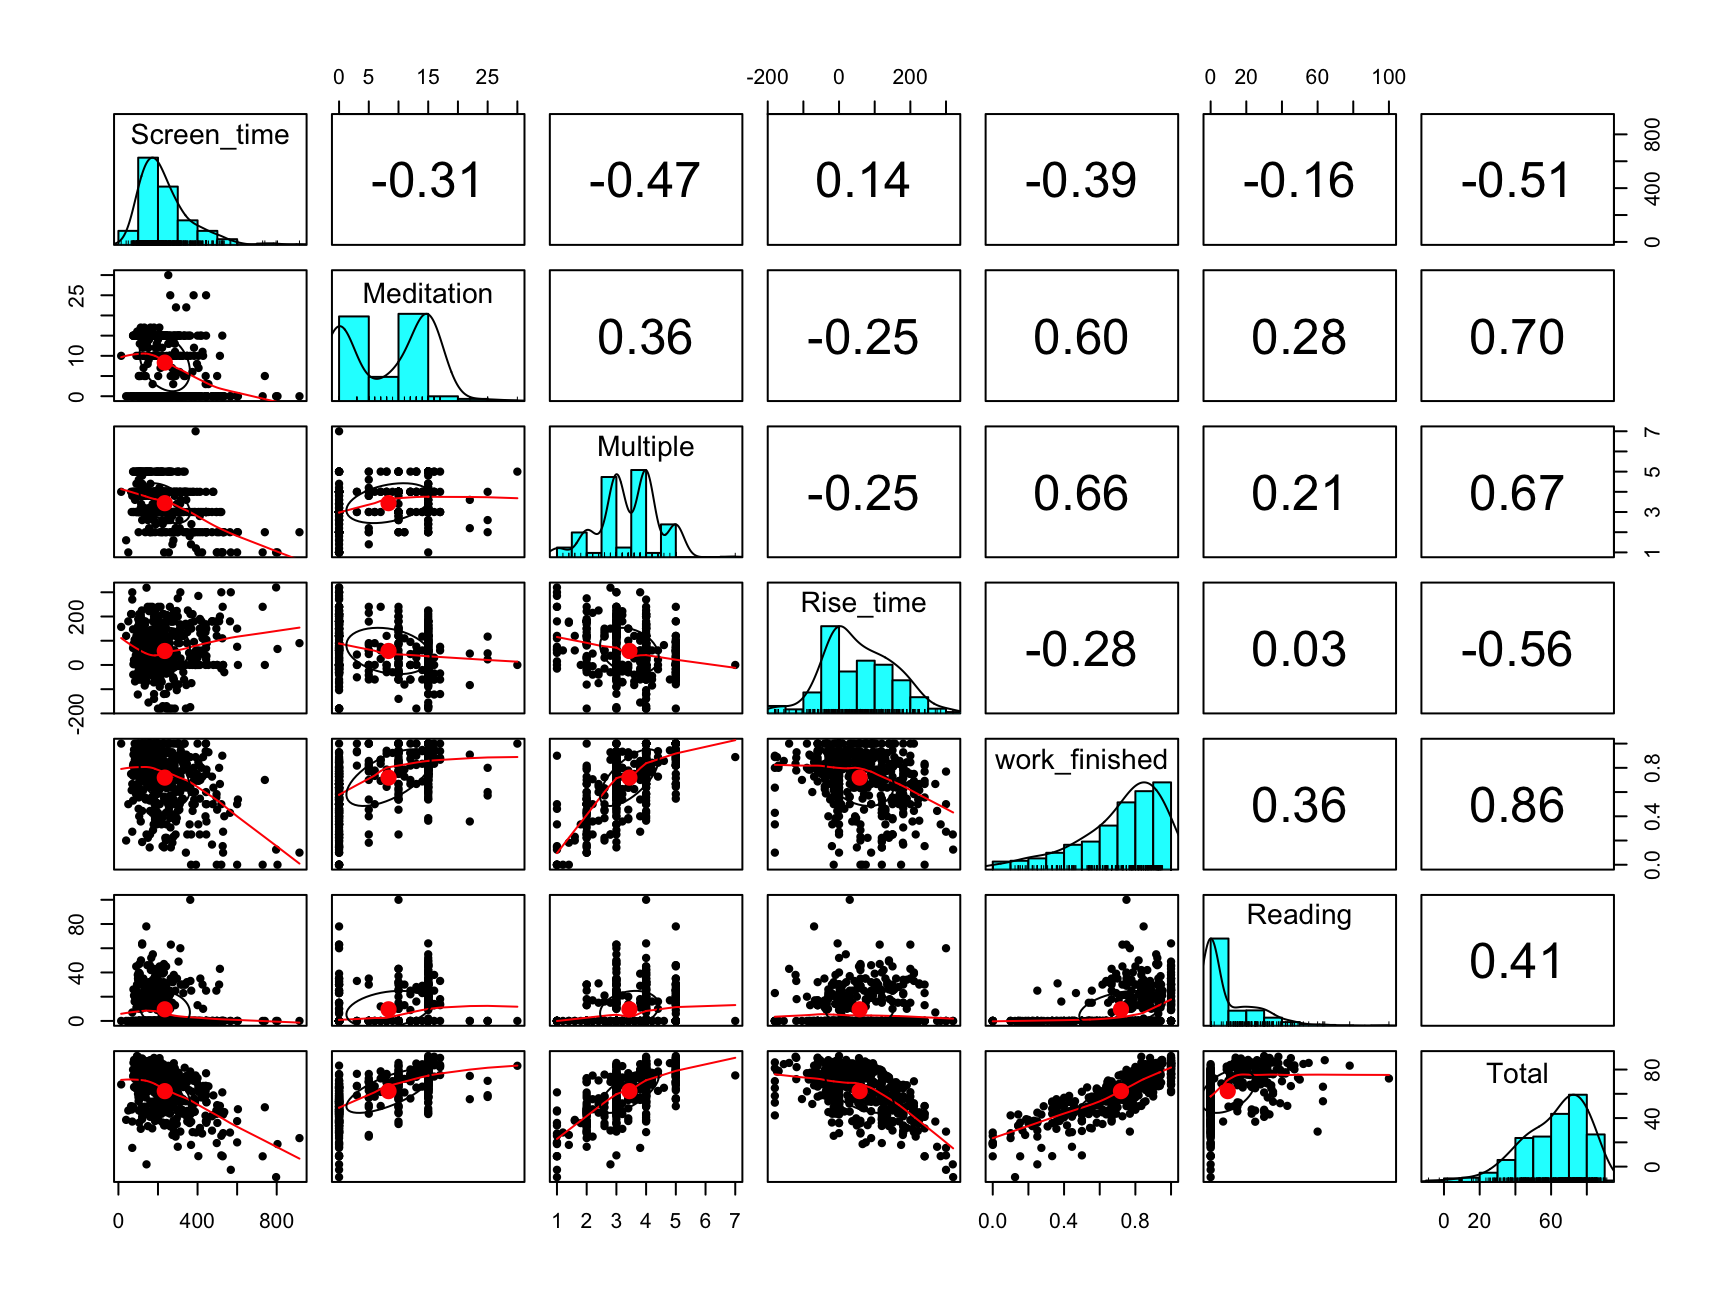
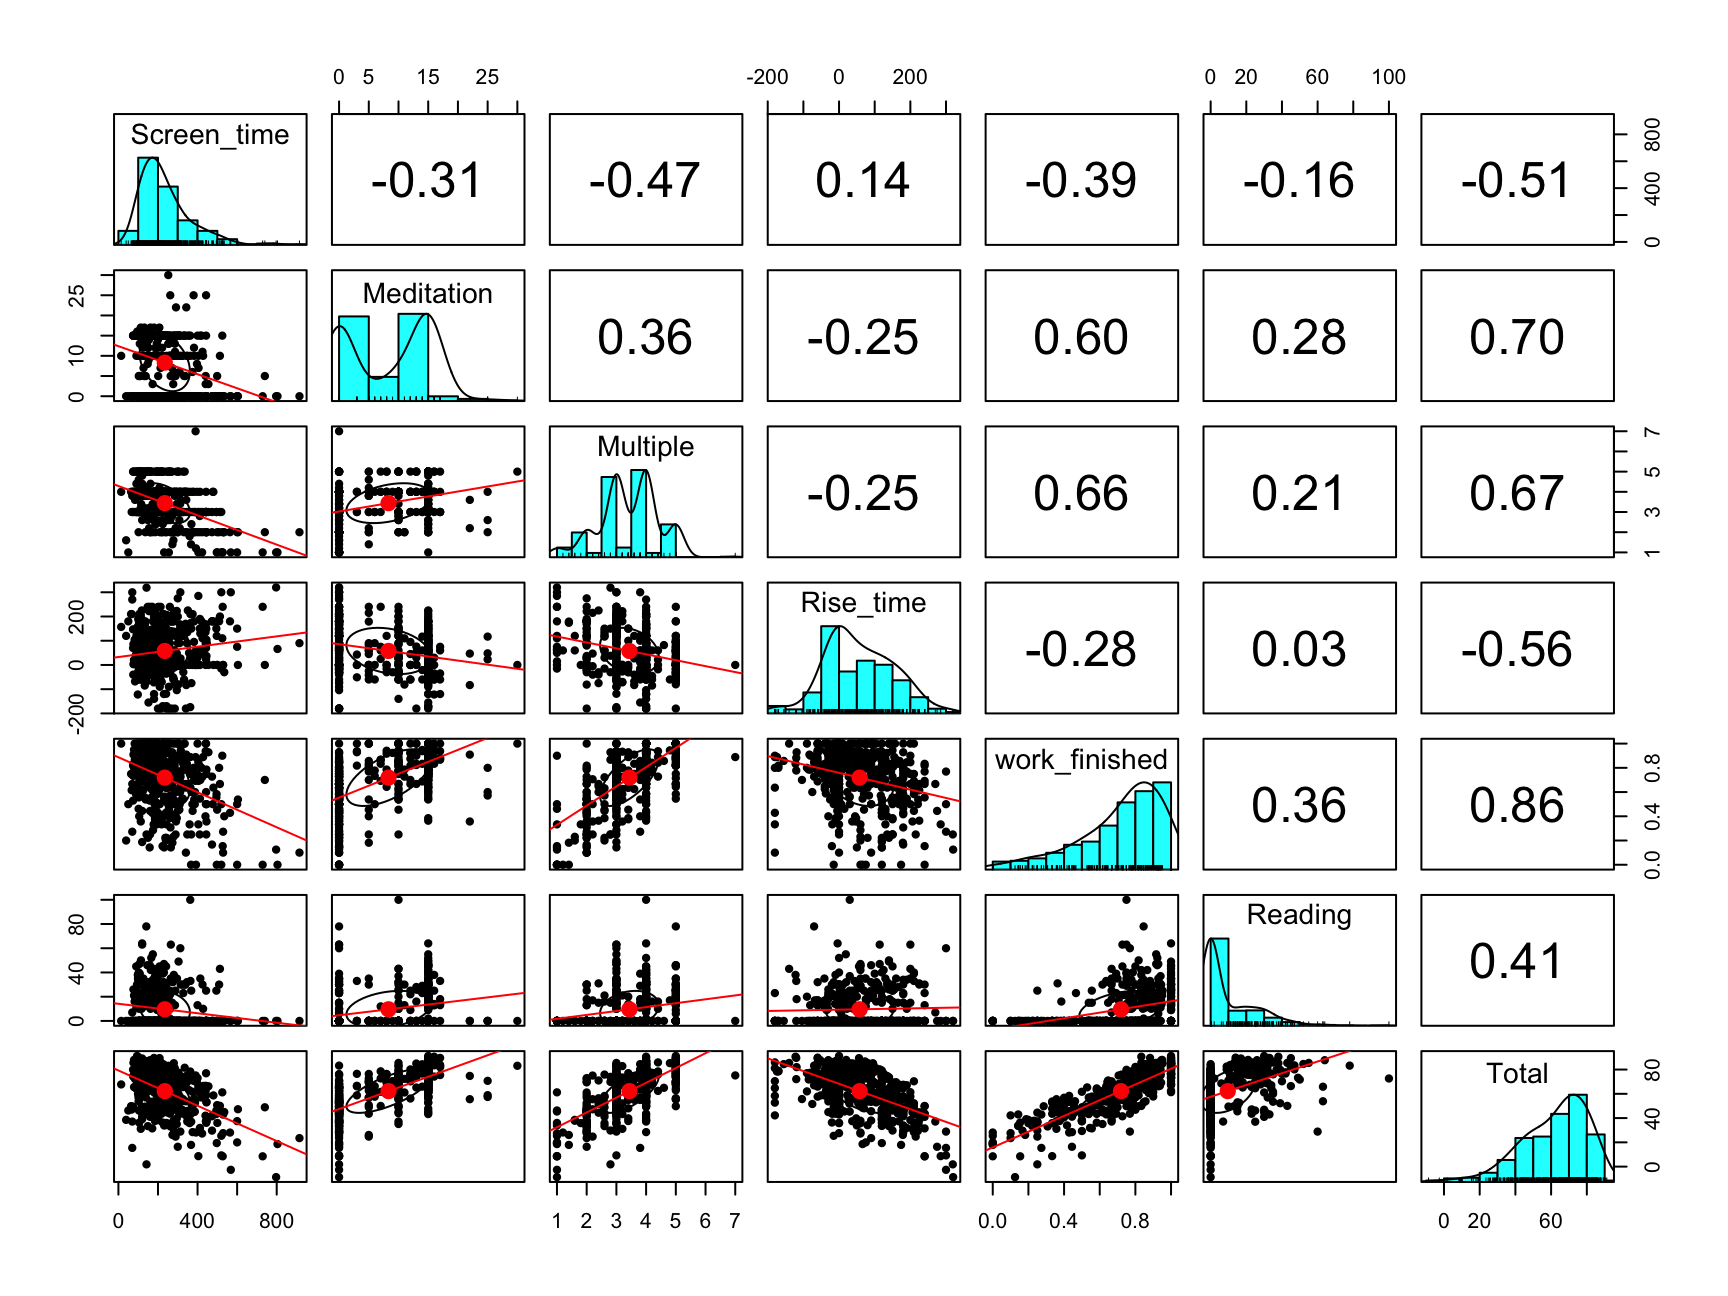
update

diff --git a/self_evaluation.html b/self_evaluation.html
@@ -391,13 +391,27 @@ grid.arrange(p1, p2, p3,p4,p5,p6,p7,p8, nrow = 4)</code></pre>
 <p><br></p>
 <div id="find-the-relationships-between-these-variables-and-how-they-affect-my-lifestyle" class="section level3">
 <h3>Find the relationships between these variables and how they affect my lifestyle</h3>
-<p>*<font size="3">Correlation Coefficient Formula <span class="math display">\[r = \dfrac{\sum(x_i-\bar{x})(y_i-\bar{y})}{\sqrt{\sum(x_i-\bar{x})^2\sum(y_i-\bar{y})^2}}\]</span></p>
+<p><br></p>
+<p><font size="3">We will first take a look at the characteristics of the variables by utilizing <strong>descriptive statistics</strong>.</font> <br></p>
+<ul>
+<li><font size="3">Use <strong>pairs.panels function</strong> in psych module
+<ul>
+<li>The <em>diagonal histograms</em> demonstrates the distribution of each variable</li>
+<li>The <em>bottom left triangle</em> represents a scatter plot with the best fit line</li>
+<li>The <em>top right triangle</em> represents a correlation coefficient for each pair, which ranges from -1 to 1
+<ul>
+<li>If the coefficient is close to 1, it means that the pair holds a positive relationship and a negative relationship for -1.</li>
+</ul></li>
+<li>Correlation Coefficient Formula:</font> <span class="math display">\[r = \dfrac{\sum(x_i-\bar{x})(y_i-\bar{y})}{\sqrt{\sum(x_i-\bar{x})^2\sum(y_i-\bar{y})^2}}\]</span></li>
+</ul></li>
+</ul>
 <pre class="r"><code>correlation_plot &lt;- all_dat %&gt;%
   select(c(Screen_time, Meditation, Multiple, Rise_time, work_finished, 
            Reading,Total))
 
-pairs.panels(correlation_plot)</code></pre>
+pairs.panels(correlation_plot, lm = TRUE)</code></pre>
 <p><img src="self_evaluation_files/figure-html/unnamed-chunk-4-1.png" width="1600px" style="display: block; margin: auto;" /></p>
+<p><br></p>
 <div id="single-regression-function-yalphabeta-x" class="section level4">
 <h4>Single Regression Function: <span class="math inline">\(y=\alpha+\beta x\)</span></h4>
 <ul>
